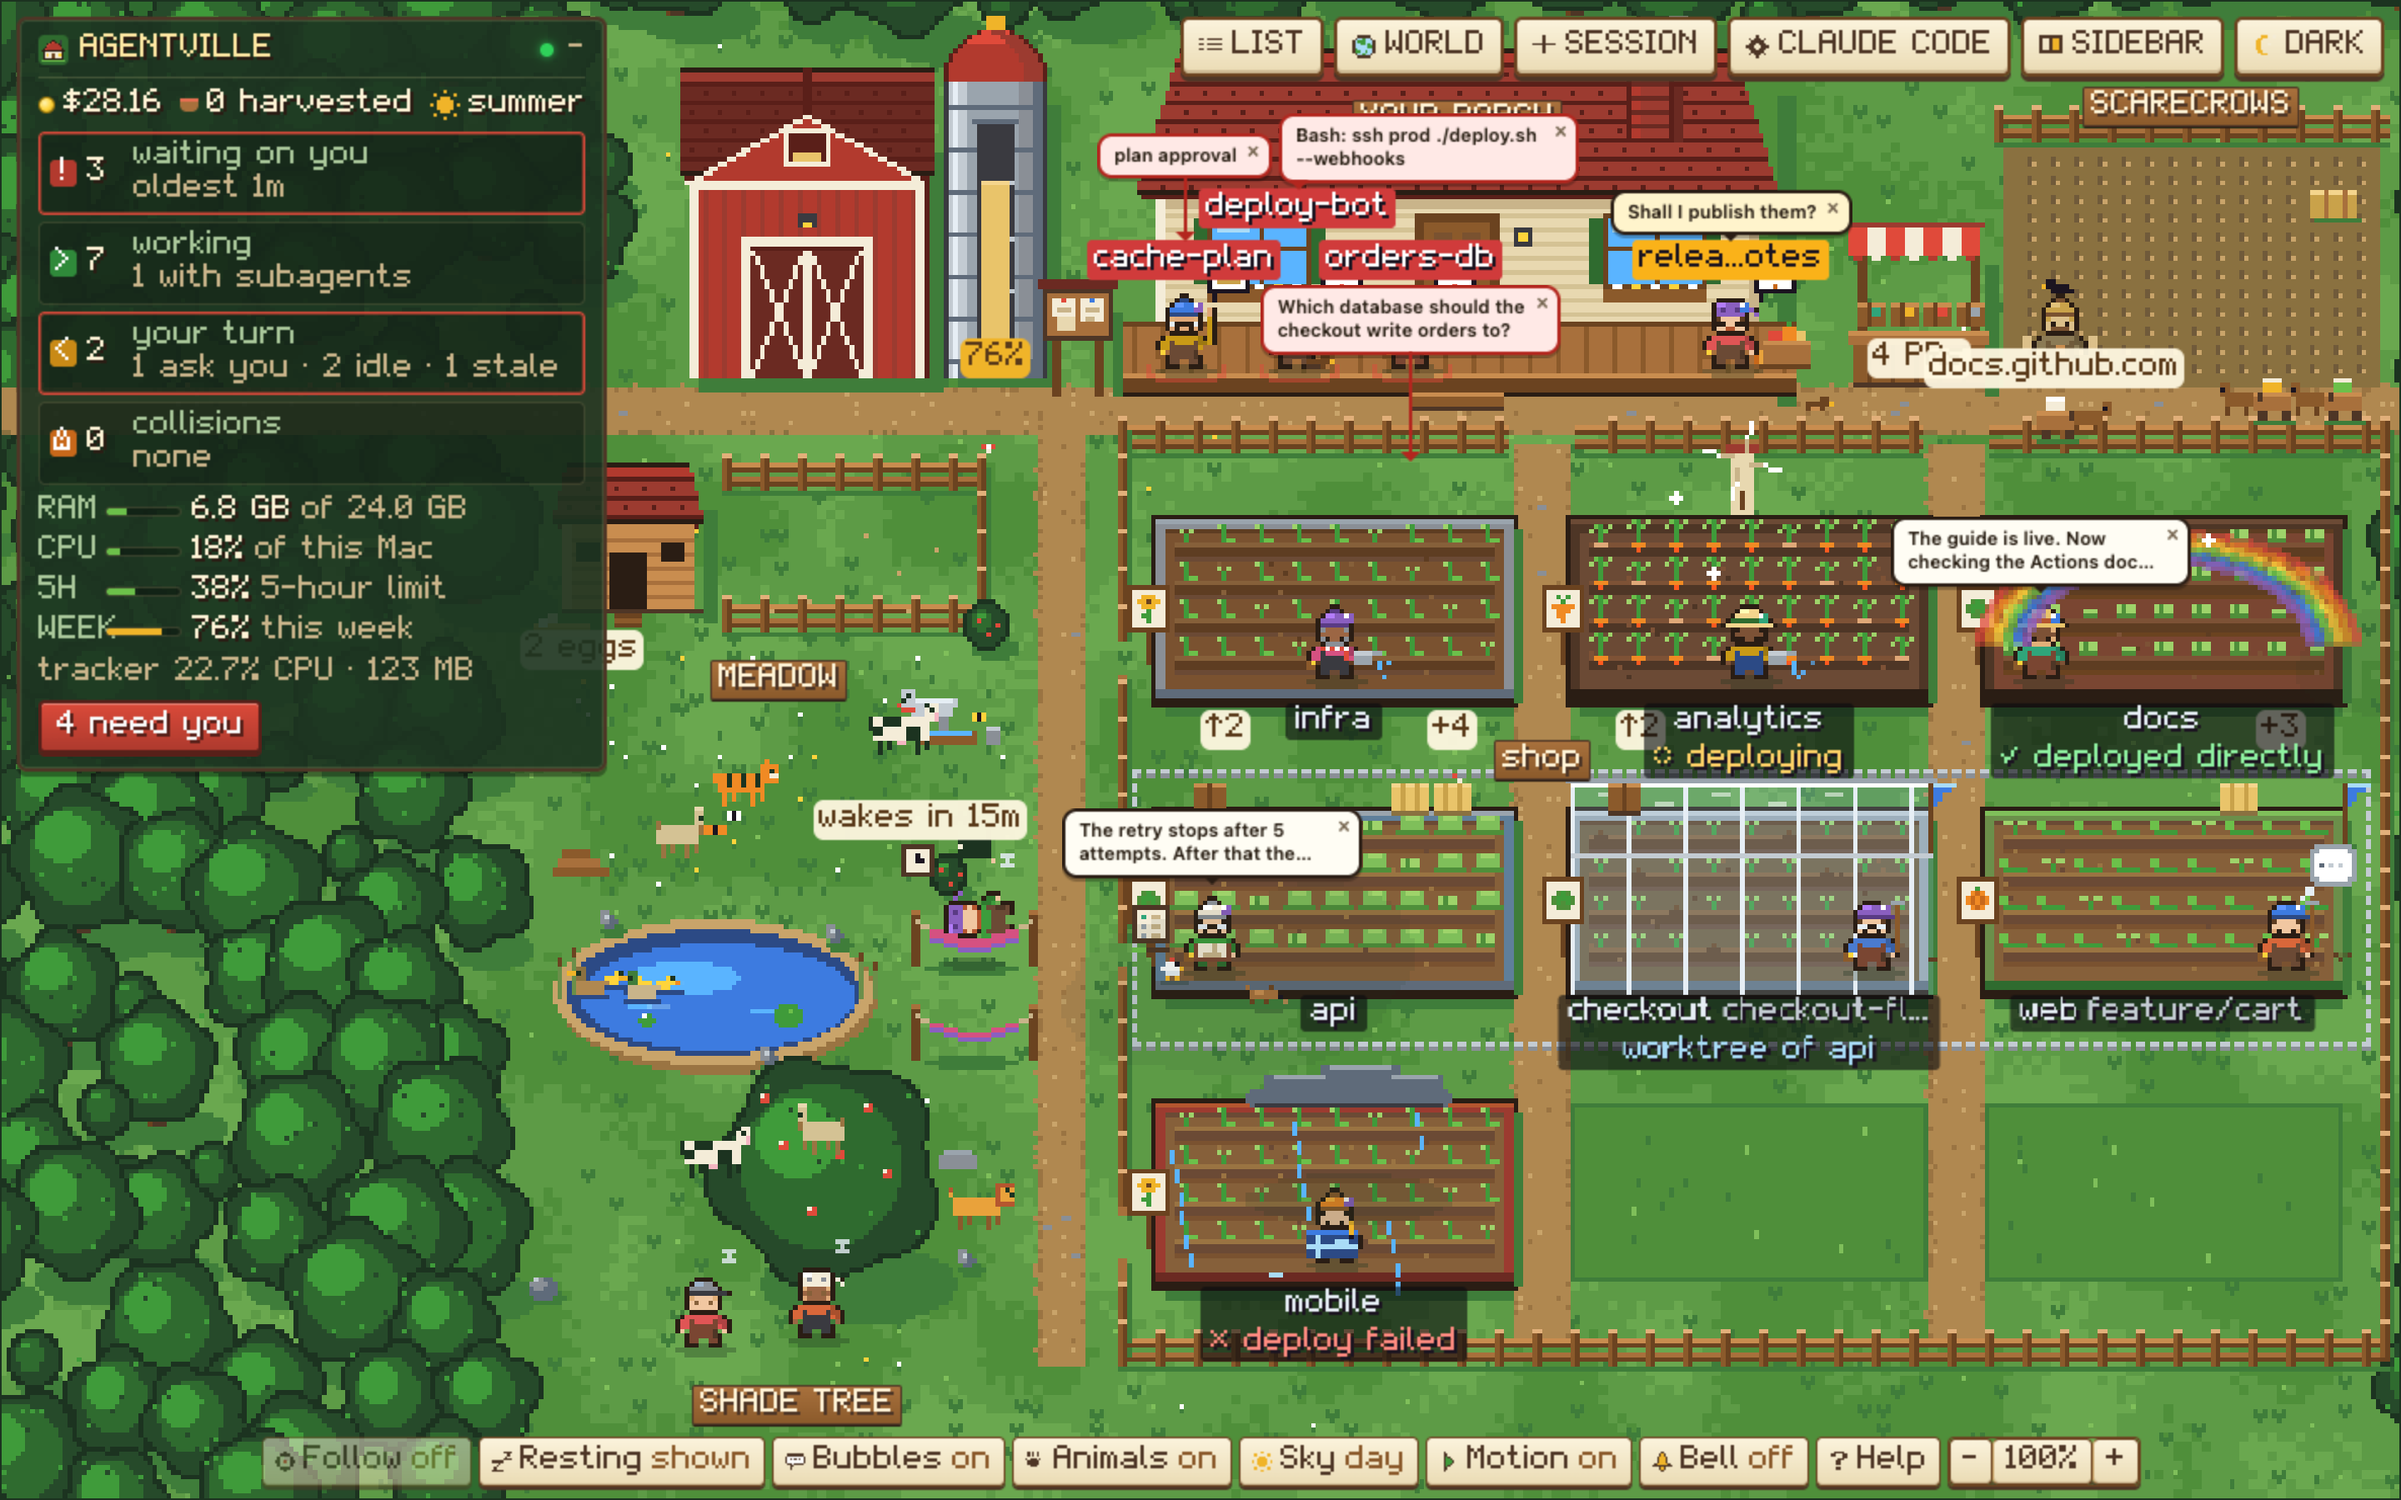
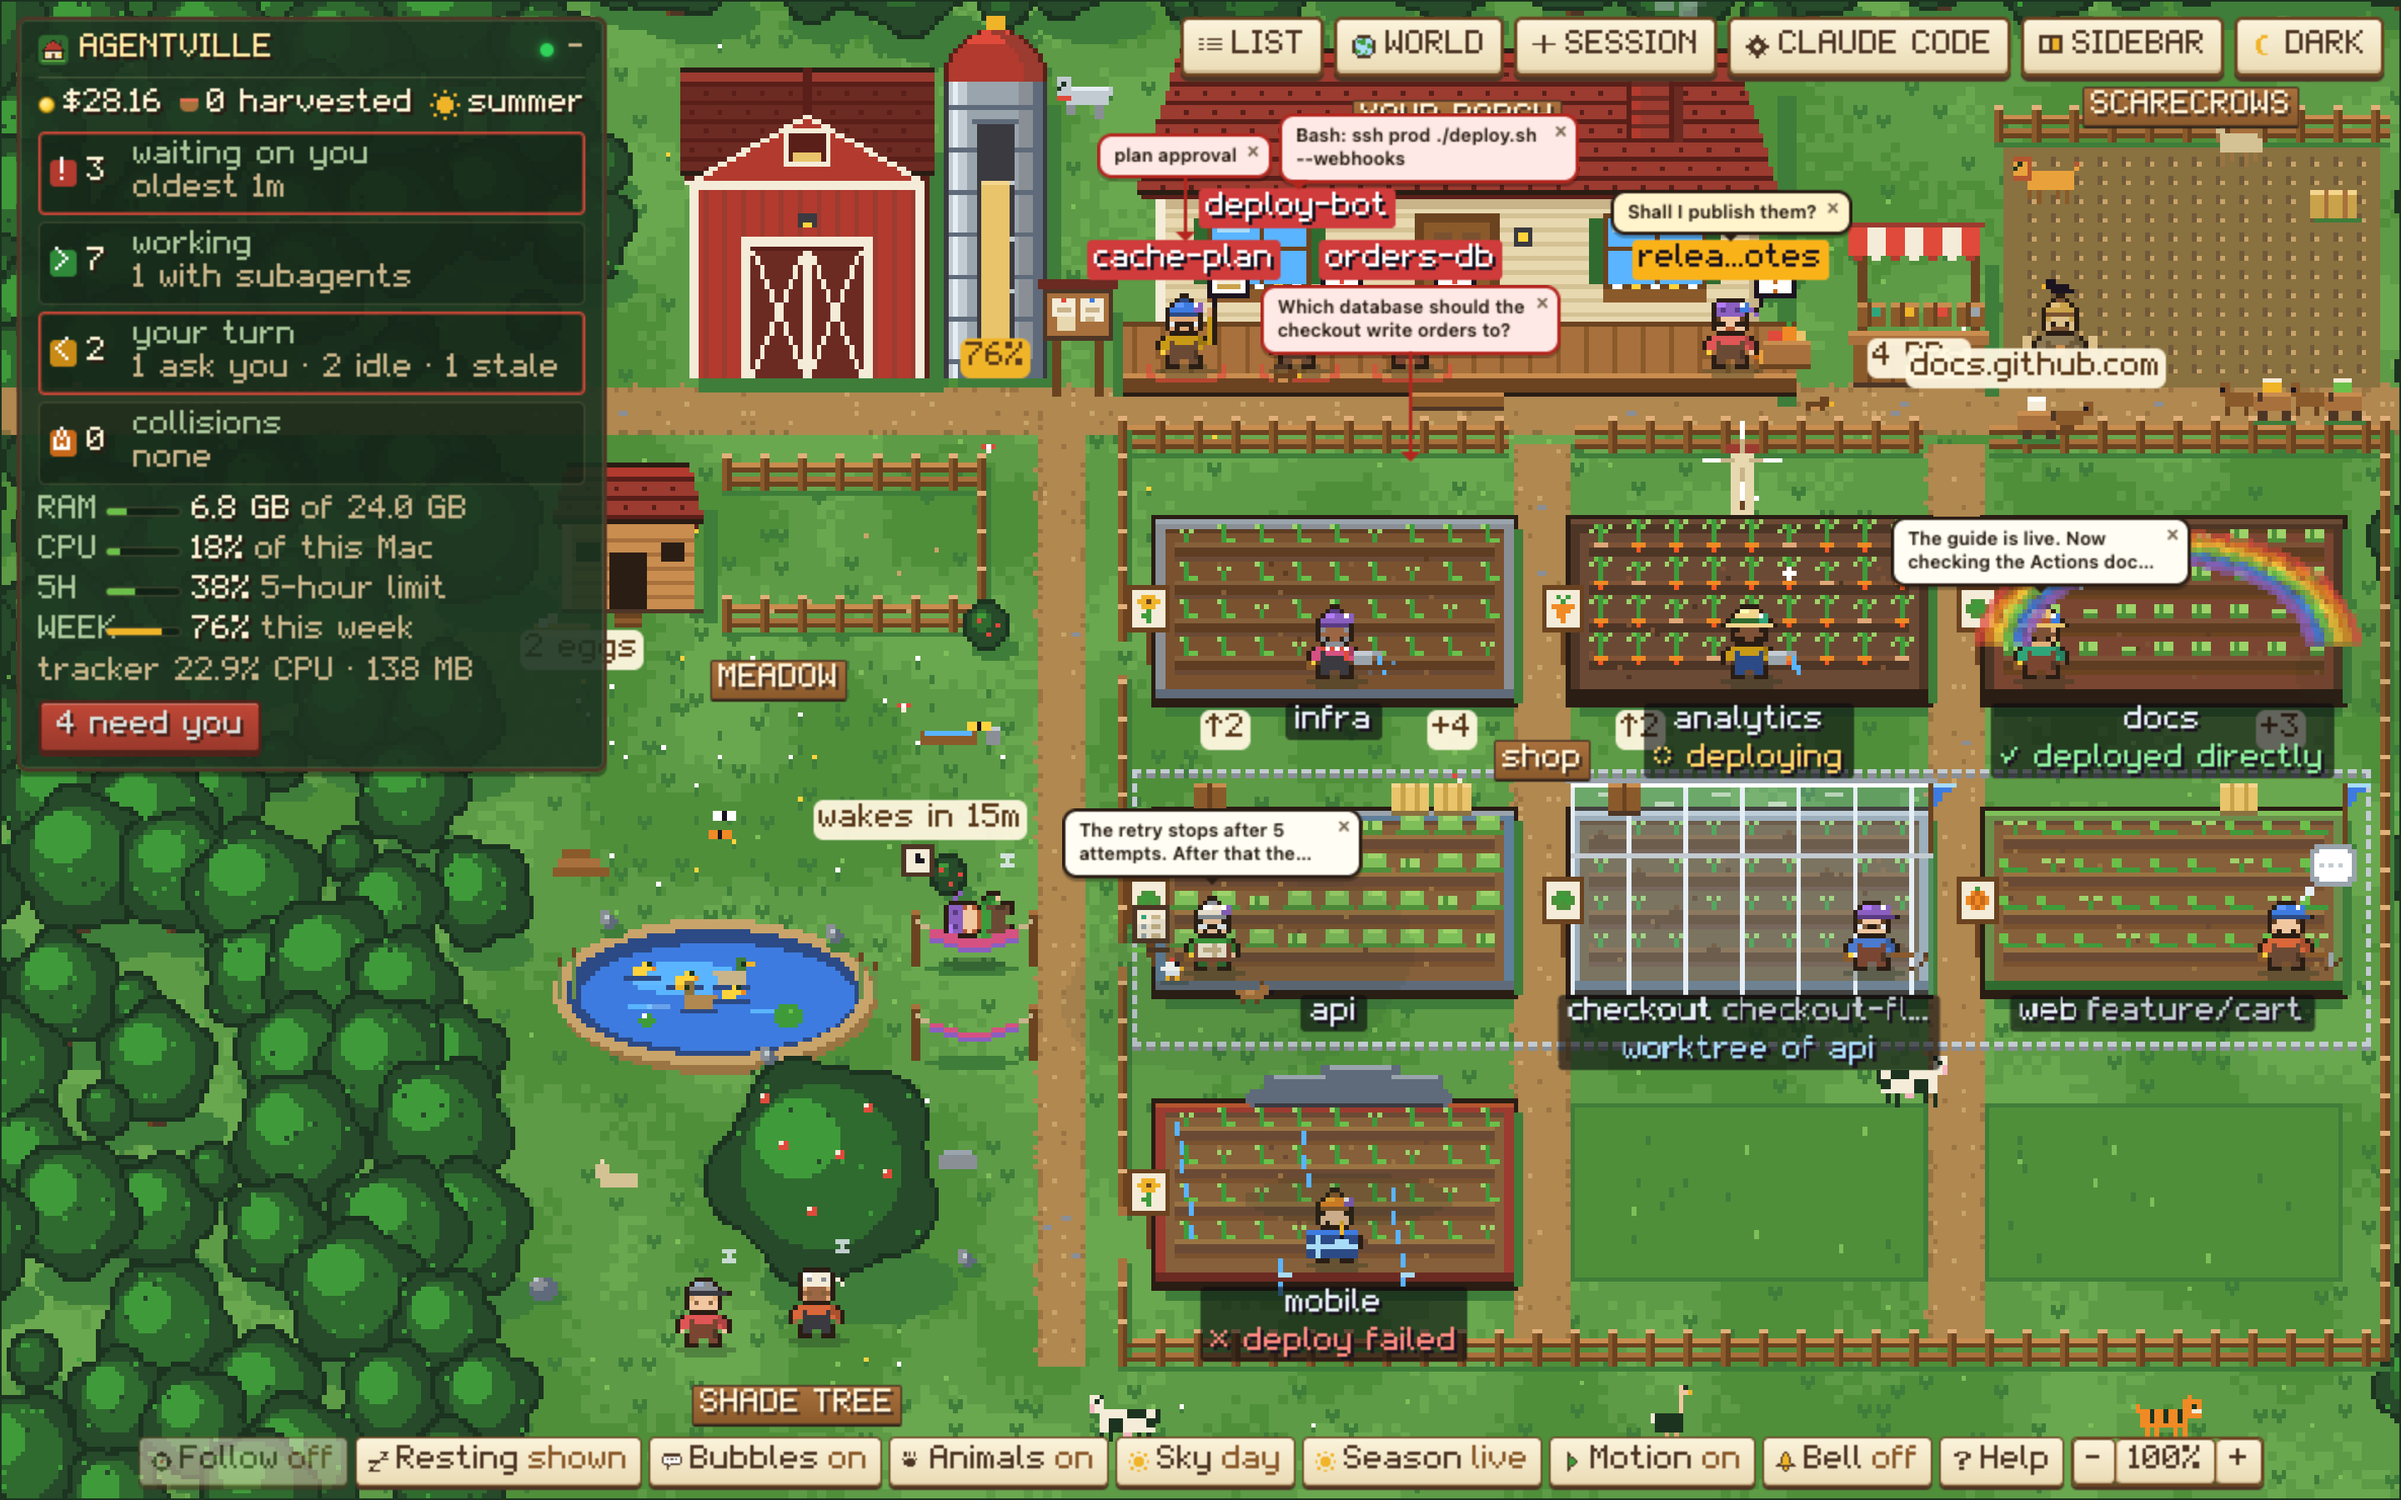
Animals roam the whole farm (never a crop bed, a building or the carts' row); their bubbles wrap so a full line fits

diff --git a/web/worlds/farm/world.js b/web/worlds/farm/world.js
@@ -878,8 +878,8 @@
       px(pony - 3 + step, y - 1, 1, 2, '#6b4320'); px(pony + 1 - step, y - 1, 1, 2, '#6b4320'); px(pony - dir * 4, y - 4, 1, 2, '#4e3626');
     }
     const FIREFLIES = [[20, 150], [60, 160], [92, 176], [30, 232], [74, 196], [50, 252], [100, 250], [14, 262], [88, 140], [96, 214], [240, 92], [330, 70]];
-    // The farm's animals (sdk/animals.js): just for fun, never data. They walk the yard (not the lane:
-    // it runs along the porch, where farmers waiting on you stand), never the fields (their crops are context), the hay, crates or mailbox (git), the carts' rank (MCP),
+    // The farm's animals (sdk/animals.js): just for fun, never data. They walk the whole farm, but never
+    // on a crop bed (its crops, hay, crates and mailbox are the repo's state), into a building, onto the carts' row (MCP),
     // the hammocks or the henhouse. No chickens (subagents), and the dog is a sheepdog (the Explore dog is
     // data). The ducks keep to the pond and its bank.
     const POND = { x: 12, y: 199, w: 60, h: 22 }; // the water (the pond's oval, a little inside its bank)
@@ -1068,10 +1068,10 @@
       spots: () => ({ hammock: NAPS[1], bucket: [TROUGH.x + 9, TROUGH.y], huddle: [56, 200 - 30], stall: [104, 102], barn: [62, 140] }),
       /** Is a gag's spot free now: a hammock is taken while anyone naps (the nappers have the hammocks). */
       spotFree: name => (name === 'hammock' ? !scene.farmers.some(f => f.nap) : true),
-      /** Where the animals may walk: the yard, down to the fence's foot (not the lane, along the porch where farmers wait on you). */
-      roam: () => [{ x: 4, y: 100, w: 100, h: Math.max(20, L.GRID.y1 - 104) }],
-      /** What they keep off in there: the pond (the ducks' own), the hammocks, the henhouse and its run, the shade tree's trunk. */
-      avoid: () => [{ x: 8, y: 194, w: 70, h: 32 }, { x: 84, y: 196, w: 24, h: 34 }, { x: 0, y: 95, w: 106, h: 44 }, { x: 60, y: L.GRID.y1 - 26, w: 14, h: 12 }], // the run's hens are subagents
+      /** Where the animals may walk: the whole farm (its crop beds and buildings are kept off by fieldAt and buildingAt). */
+      roam: () => [{ x: 4, y: 14, w: W - 8, h: L.H - 18 }],
+      /** What they keep off besides: the pond (the ducks' own), the hammocks, the henhouse and its run, the shade tree's trunk, the row where the tool carts park. */
+      avoid: () => [{ x: 8, y: 194, w: 70, h: 32 }, { x: 84, y: 196, w: 24, h: 34 }, { x: 0, y: 95, w: 106, h: 44 }, { x: 60, y: L.GRID.y1 - 26, w: 14, h: 12 }, { x: 300, y: 78, w: 98, h: 16 }], // the run's hens are subagents; the carts are MCP servers
       /** Particles a farmer gives off: dust when walking; splashes, clods, sparks, chips from its tool. */
       emit(f, b, dt, add) {
         const ox = b.x - 7 * SC, oy = b.y - 16 * SC, T = PXG.T;

diff --git a/web/worlds/sdk/engine.css b/web/worlds/sdk/engine.css
@@ -179,7 +179,7 @@ a.pile { text-decoration: none; color: inherit; }
 #farm { height: 100%; min-height: 0; display: flex; flex-direction: column; overflow: hidden; }
 
 /* An animal's bubble: smaller than a farmer's, cream with a dotted edge, no close button (it says something silly and goes). */
-.px-animal-say { position: absolute; left: 0; top: 0; z-index: 30; max-width: 160px; padding: 2px 6px; border: 1px dashed #8b5a2b; border-radius: 8px; background: #fff7e0; color: #4e3626; font: 600 10px/1.3 ui-sans-serif, system-ui, sans-serif; white-space: nowrap; pointer-events: none; }
+.px-animal-say { position: absolute; left: 0; top: 0; z-index: 30; width: max-content; max-width: 150px; padding: 2px 6px; border: 1px dashed #8b5a2b; border-radius: 8px; background: #fff7e0; color: #4e3626; font: 600 10px/1.3 ui-sans-serif, system-ui, sans-serif; white-space: normal; overflow-wrap: anywhere; text-align: center; pointer-events: none; } /* a line of 40 characters wraps onto two */
 .px-animal-say[hidden] { display: none; }
 
 /* An animal's menu: what to do with it, and who will go. */

diff --git a/README.md b/README.md
@@ -671,9 +671,11 @@ keep clear of the panel and the buttons too.
 **Animals.** Two cows, two goats, a sheepdog (with a red bandana, so it is never taken for the
 Explore dog), an ostrich, a lion, a tiger and a duck family (a mallard pair and three ducklings) live
 on the farm just for fun. They never stand for anything.
-- They wander the yard, graze and nap. They keep off the lane by the porch (where farmers waiting
-  on you stand), out of the fields, the hay, crates and mailbox, the hammocks, and the henhouse and its run
-  (its hens are subagents). The ducks keep to the pond.
+- They wander the whole farm, graze and nap: the yard, the lanes and the porch, the meadow, around
+  the scarecrows, the barn and the market. They never walk on a crop bed (its crops, hay, crates and
+  mailbox are the repo's state), into a building, onto the row where the tool carts park, into the
+  hammocks or the henhouse and its run (its hens are subagents). The ducks keep to the pond.
+- Their lines wrap onto two lines when they need to, so a full 40-character line fits its bubble.
 - At night most sleep; the lion wanders. With **Motion** off they doze where they are.
 - Now and then one says something in a small cream bubble with a dotted edge. It never covers a
   farmer's bubble or name: it moves aside or waits.
